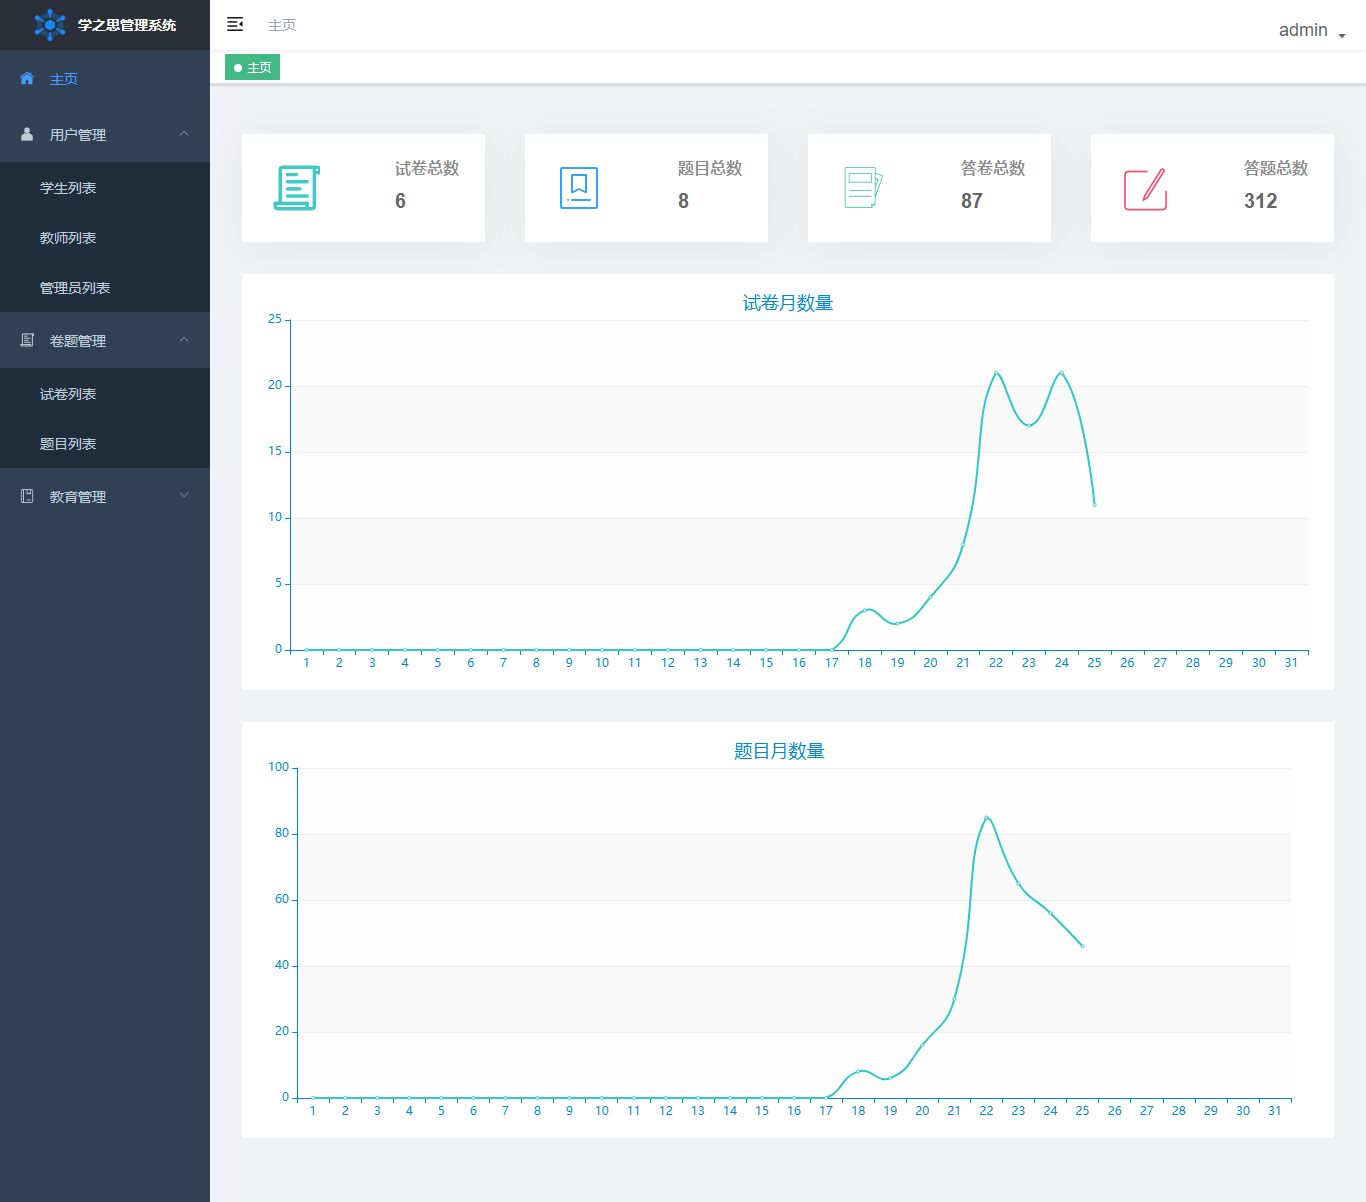
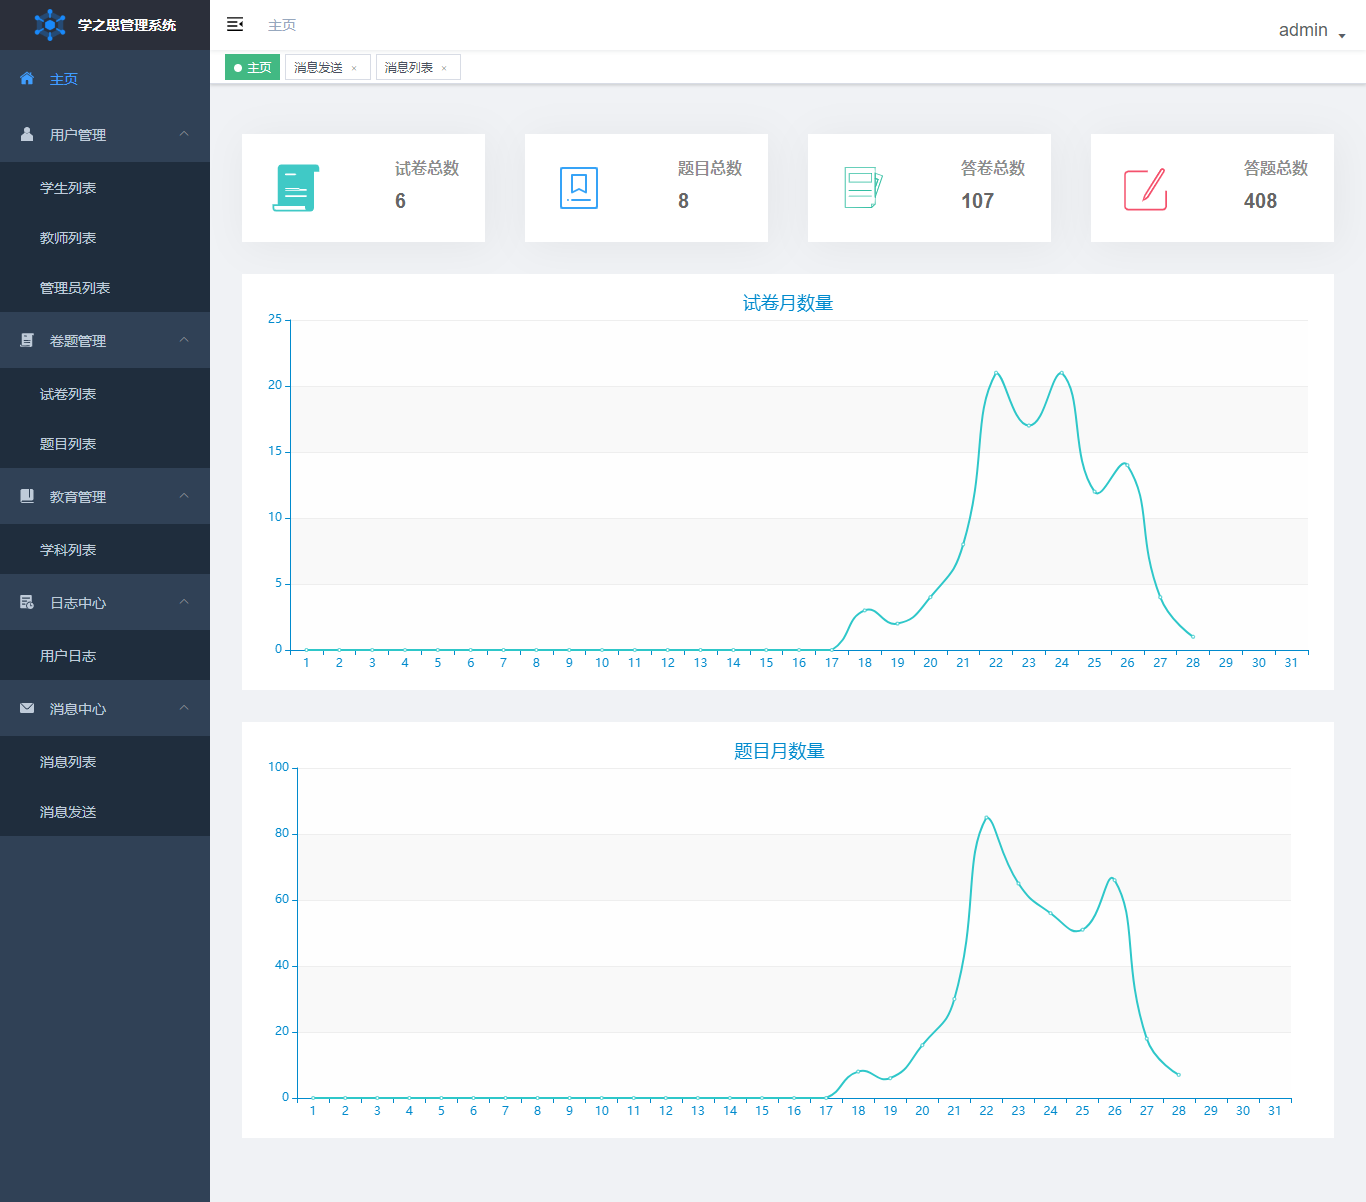
update image demo

diff --git a/README.md b/README.md
@@ -17,7 +17,7 @@
 * 考试记录： 所有的试卷考试记录在此处分页，可以查看试卷结果、用时、得分、自行批改(TODO)等
 * 错题本： 所有做错的题目，可以看到做题的结果、分数、难度、解析、正确答案、扩展练习(TODO)等
 * 个人中心： 个人日志记录
-* 消息： TODO 
+* 消息： 消息通知 
 * 试卷答题和试卷查看： 展示出题目的基本信息和需要填写的内容
 
 管理系统模块：
@@ -73,6 +73,8 @@
 ![](doc/image/admin/7.png)
 ![](doc/image/admin/8.png)
 ![](doc/image/admin/9.png)
+![](doc/image/admin/10.png)
+![](doc/image/admin/11.png)
 
 2. 学之思考试系统
 
@@ -84,6 +86,8 @@
 ![](doc/image/student/6.png)
 ![](doc/image/student/7.png)
 ![](doc/image/student/8.png)
+![](doc/image/student/9.png)
+![](doc/image/student/10.png)
 
 #### 系统优化说明
 
@@ -94,7 +98,6 @@
 3. session使用redis共享，应用可水平扩展
 
 #### 后续更新计划
-* 完成消息中心模块
 * 完成任务中心模块(试卷类型新增任务卷)
 *  学生批改试卷
 * 完成扩展训练模块，错题本试卷扩展
